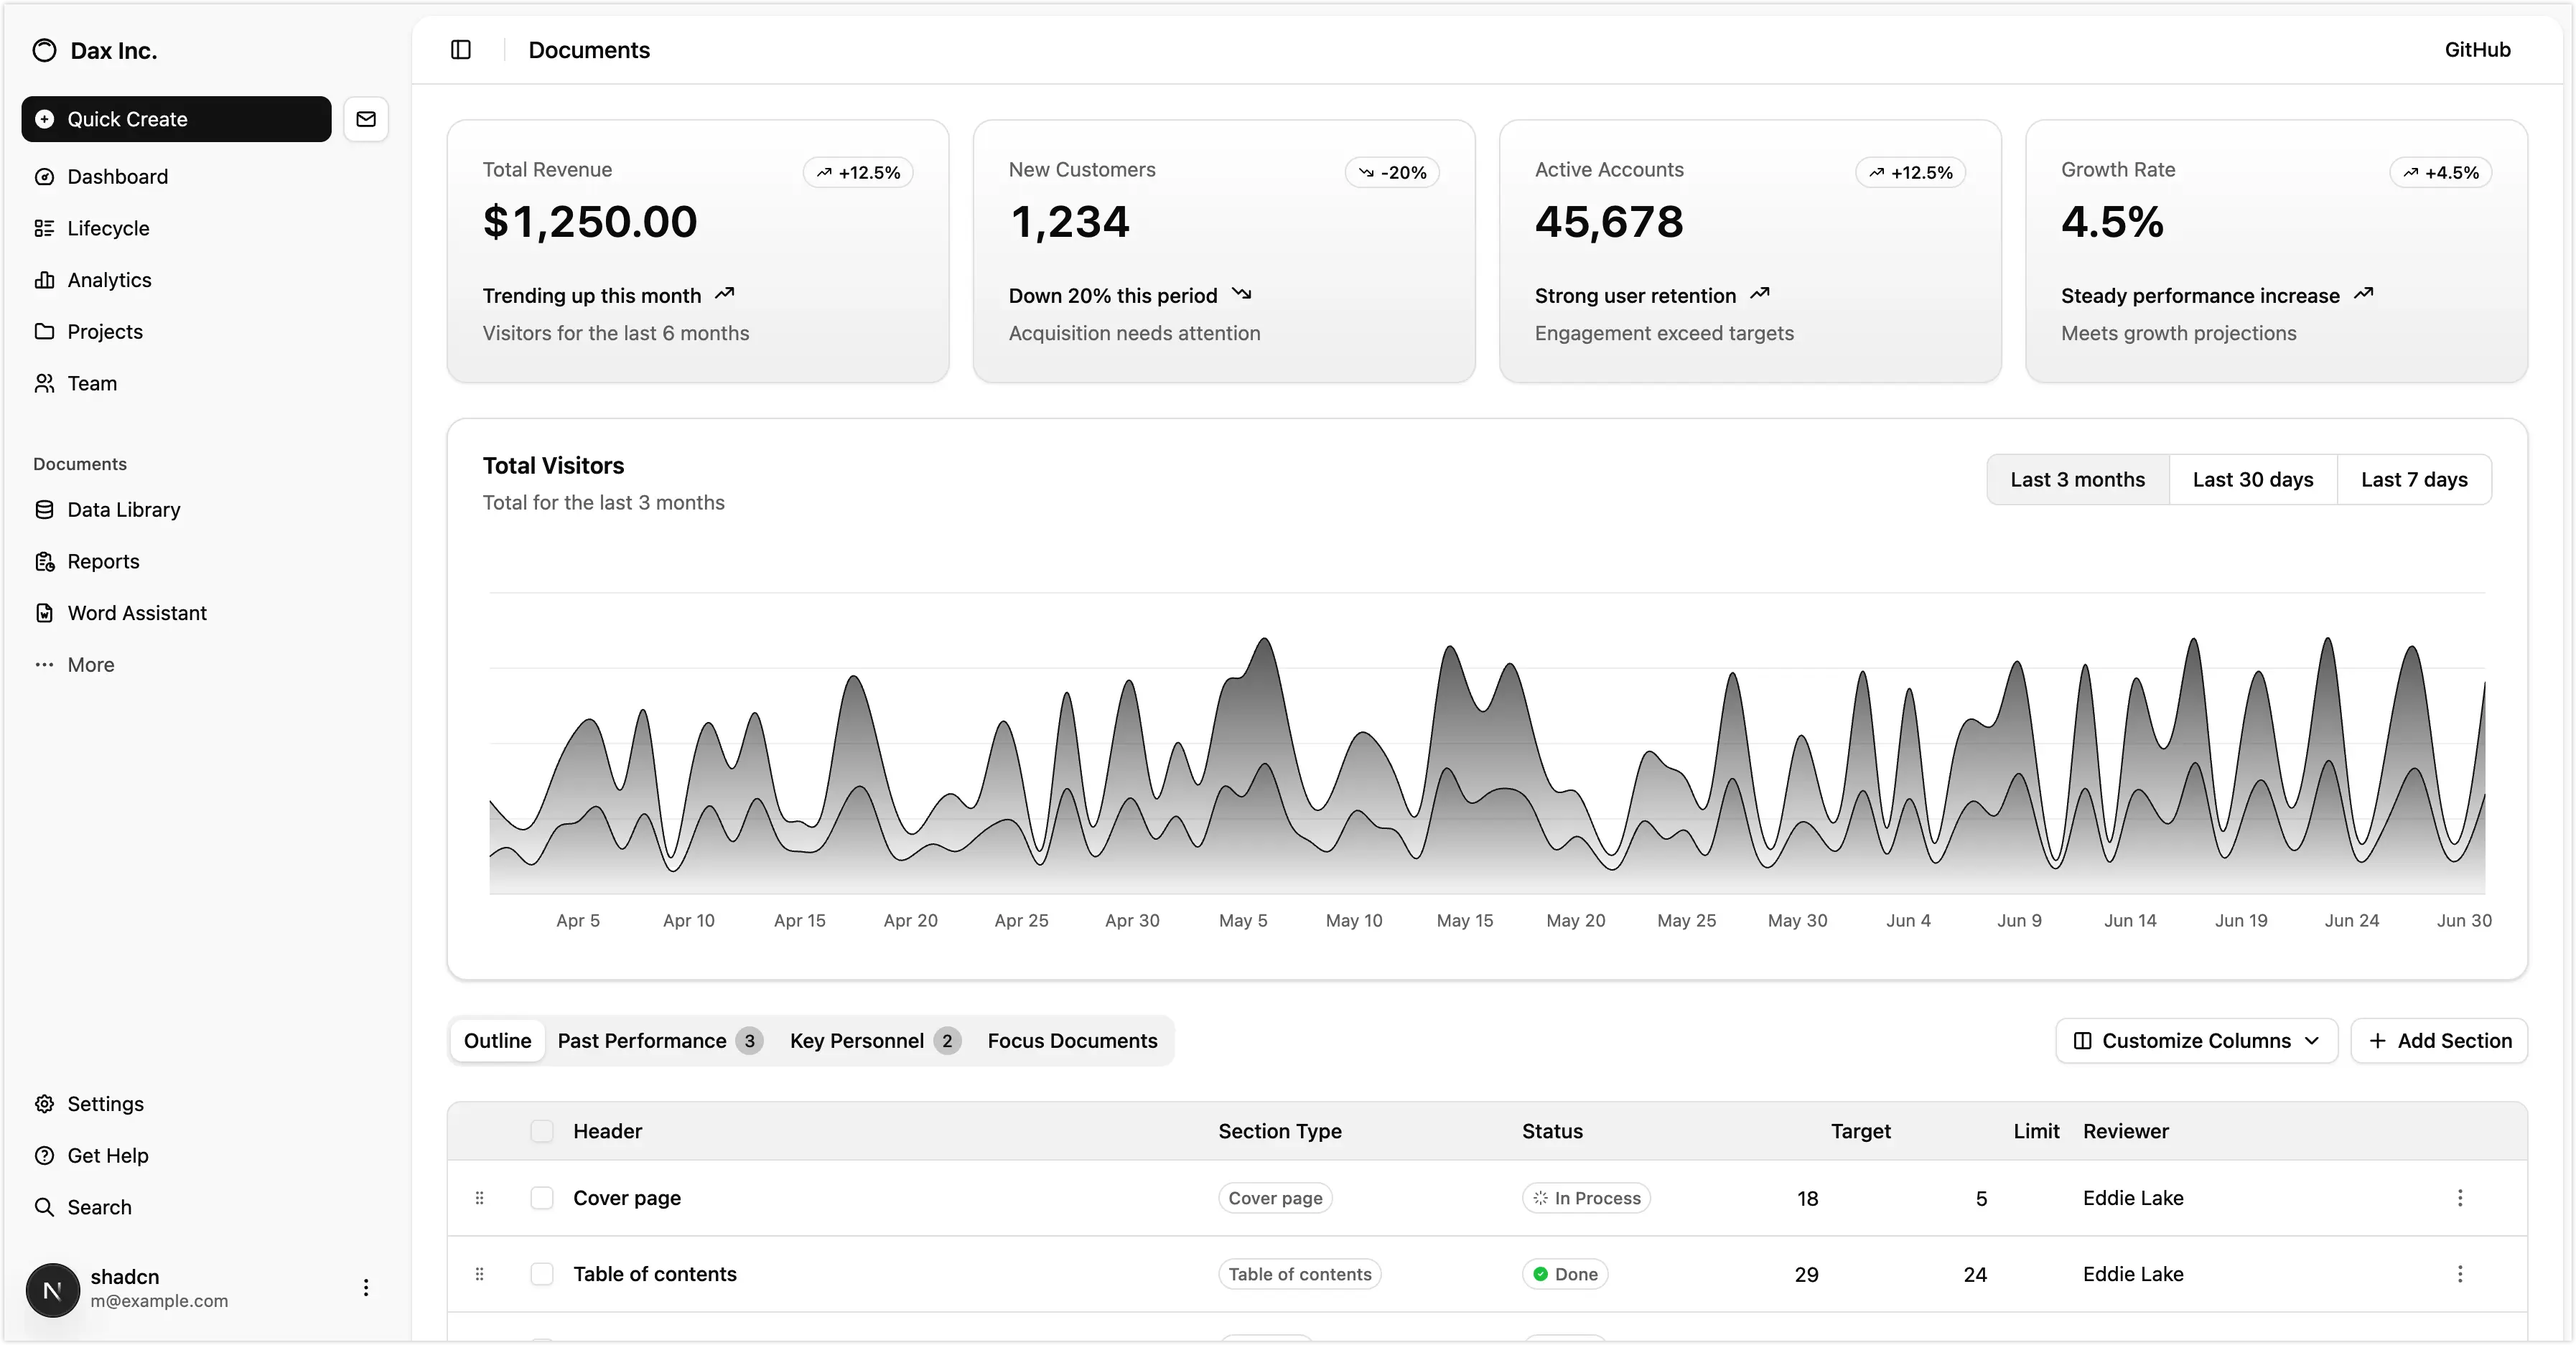
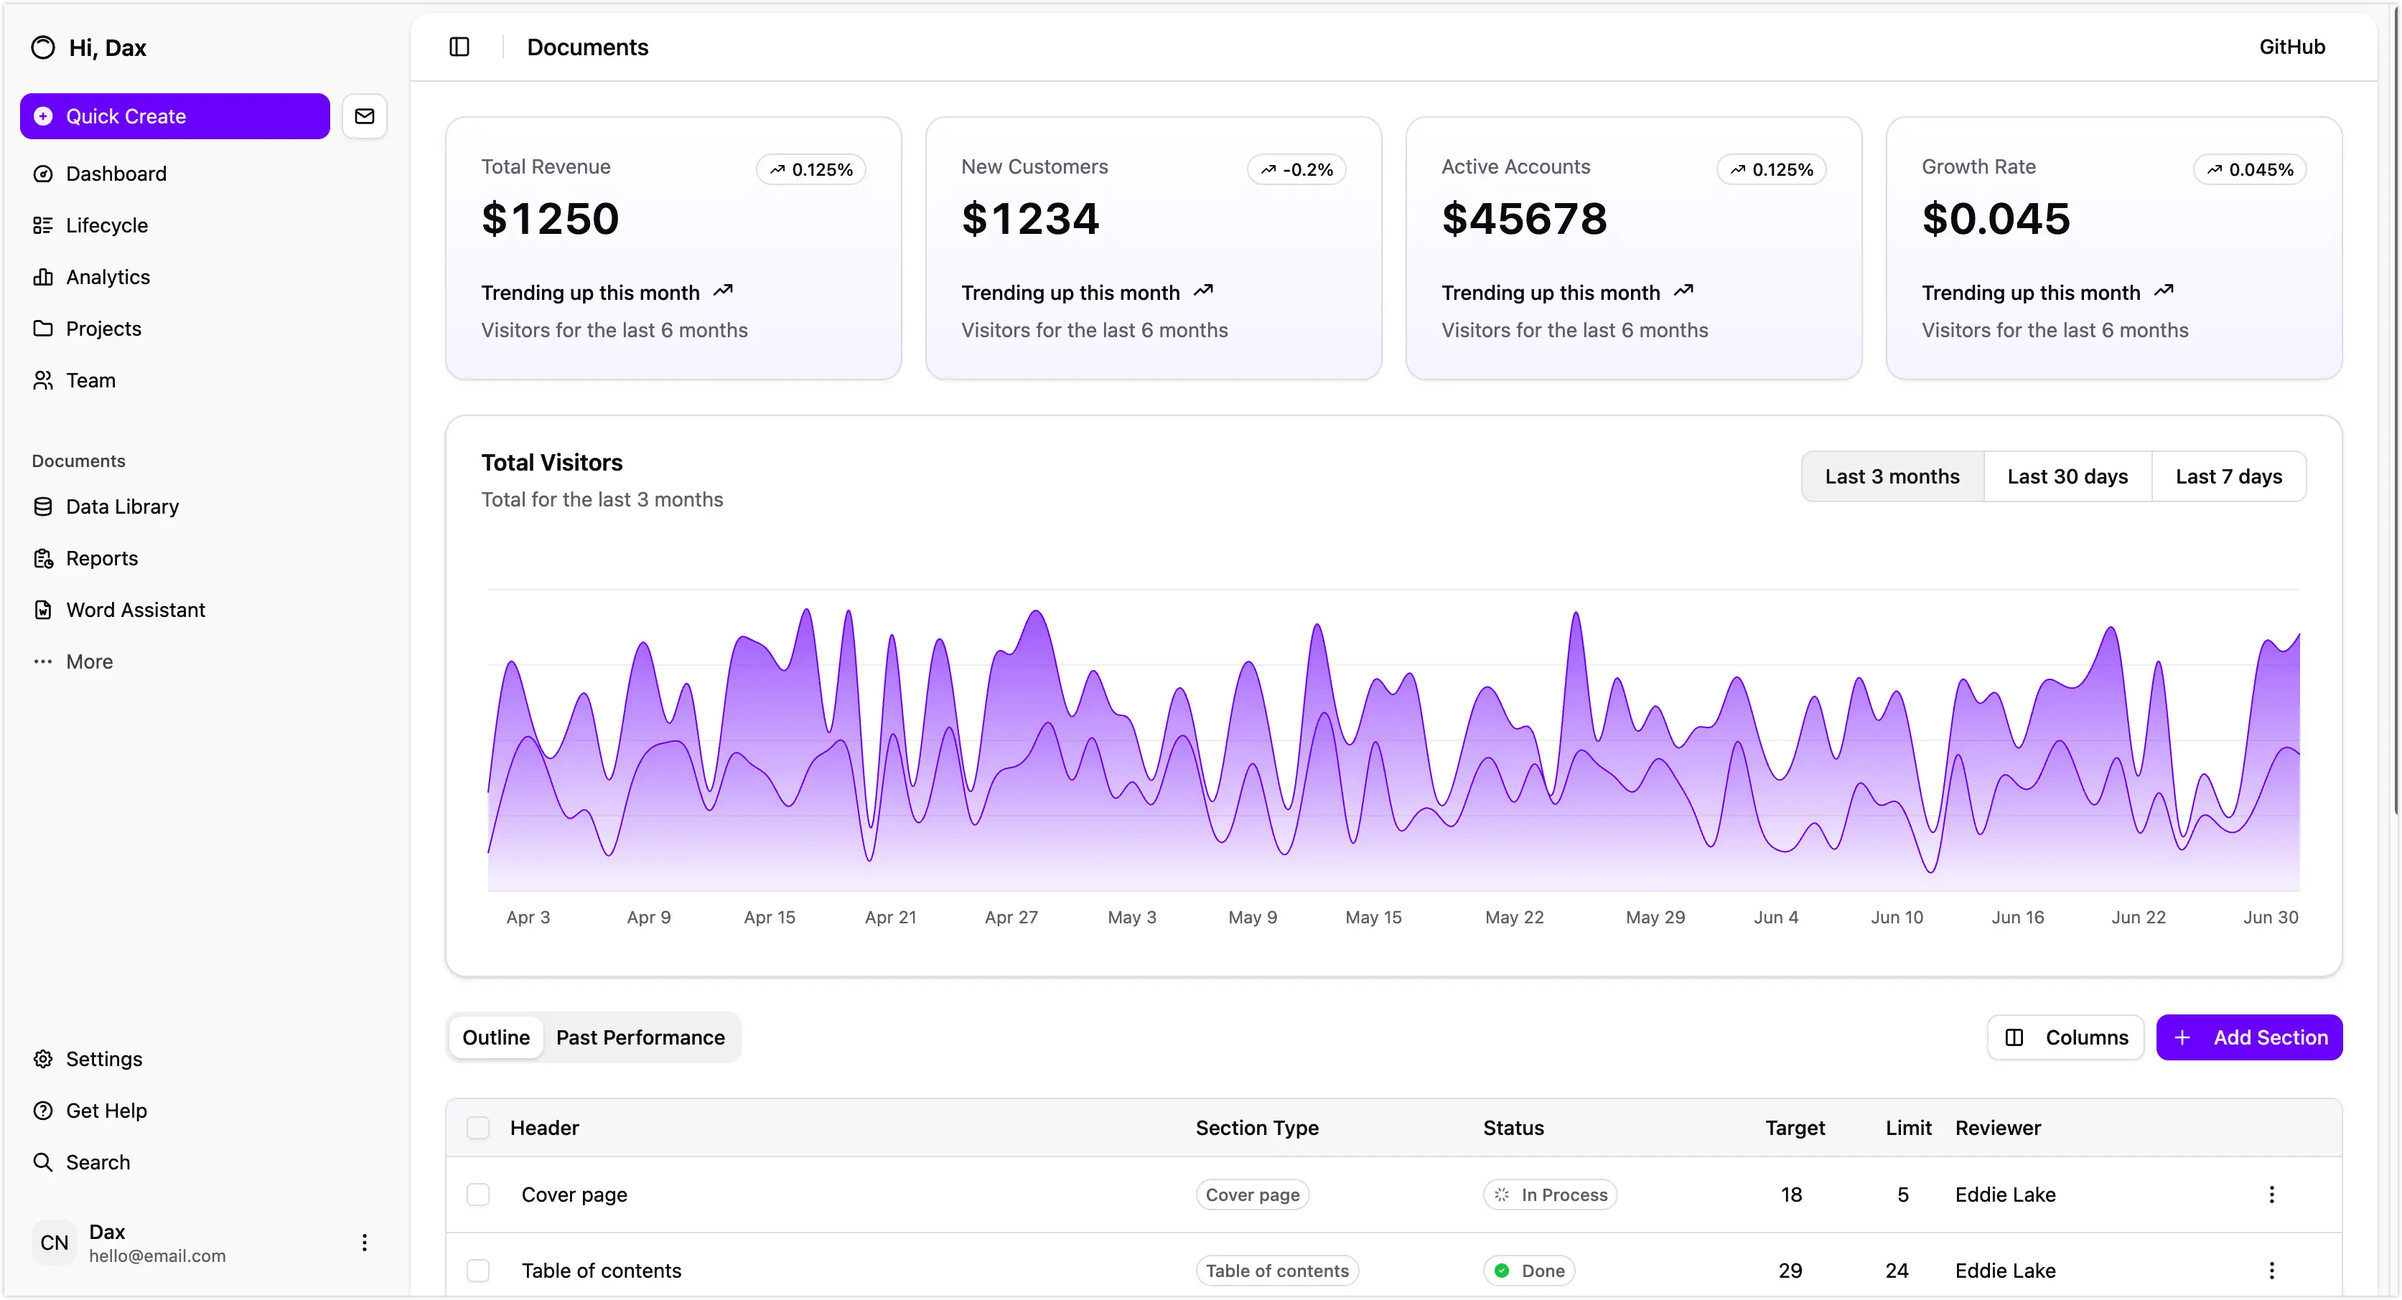
chore(console): modify theme color to violet style.

diff --git a/app/globals.css b/app/globals.css
@@ -4,156 +4,153 @@
 @custom-variant dark (&:is(.dark *));
 
 @theme inline {
-  --radius-sm: calc(var(--radius) - 4px);
-  --radius-md: calc(var(--radius) - 2px);
-  --radius-lg: var(--radius);
-  --radius-xl: calc(var(--radius) + 4px);
-  --radius-2xl: calc(var(--radius) + 8px);
-  --radius-3xl: calc(var(--radius) + 12px);
-  --radius-4xl: calc(var(--radius) + 16px);
-  --color-background: var(--background);
-  --color-foreground: var(--foreground);
-  --color-card: var(--card);
-  --color-card-foreground: var(--card-foreground);
-  --color-popover: var(--popover);
-  --color-popover-foreground: var(--popover-foreground);
-  --color-primary: var(--primary);
-  --color-primary-foreground: var(--primary-foreground);
-  --color-secondary: var(--secondary);
-  --color-secondary-foreground: var(--secondary-foreground);
-  --color-muted: var(--muted);
-  --color-muted-foreground: var(--muted-foreground);
-  --color-accent: var(--accent);
-  --color-accent-foreground: var(--accent-foreground);
-  --color-destructive: var(--destructive);
-  --color-border: var(--border);
-  --color-input: var(--input);
-  --color-ring: var(--ring);
-  --color-chart-1: var(--chart-1);
-  --color-chart-2: var(--chart-2);
-  --color-chart-3: var(--chart-3);
-  --color-chart-4: var(--chart-4);
-  --color-chart-5: var(--chart-5);
-  --color-sidebar: var(--sidebar);
-  --color-sidebar-foreground: var(--sidebar-foreground);
-  --color-sidebar-primary: var(--sidebar-primary);
-  --color-sidebar-primary-foreground: var(--sidebar-primary-foreground);
-  --color-sidebar-accent: var(--sidebar-accent);
-  --color-sidebar-accent-foreground: var(--sidebar-accent-foreground);
-  --color-sidebar-border: var(--sidebar-border);
-  --color-sidebar-ring: var(--sidebar-ring);
-  --animate-rainbow: rainbow var(--speed, 2s) infinite linear;
-  --color-color-5: var(--color-5);
-  --color-color-4: var(--color-4);
-  --color-color-3: var(--color-3);
-  --color-color-2: var(--color-2);
-  --color-color-1: var(--color-1);
-  @keyframes rainbow {
-  0% {
-    background-position: 0%;
-    }
-  100% {
-    background-position: 200%;
-    }
-  }
+	--radius-sm: calc(var(--radius) - 4px);
+	--radius-md: calc(var(--radius) - 2px);
+	--radius-lg: var(--radius);
+	--radius-xl: calc(var(--radius) + 4px);
+	--radius-2xl: calc(var(--radius) + 8px);
+	--radius-3xl: calc(var(--radius) + 12px);
+	--radius-4xl: calc(var(--radius) + 16px);
+	--color-background: var(--background);
+	--color-foreground: var(--foreground);
+	--color-card: var(--card);
+	--color-card-foreground: var(--card-foreground);
+	--color-popover: var(--popover);
+	--color-popover-foreground: var(--popover-foreground);
+	--color-primary: var(--primary);
+	--color-primary-foreground: var(--primary-foreground);
+	--color-secondary: var(--secondary);
+	--color-secondary-foreground: var(--secondary-foreground);
+	--color-muted: var(--muted);
+	--color-muted-foreground: var(--muted-foreground);
+	--color-accent: var(--accent);
+	--color-accent-foreground: var(--accent-foreground);
+	--color-destructive: var(--destructive);
+	--color-border: var(--border);
+	--color-input: var(--input);
+	--color-ring: var(--ring);
+	--color-chart-1: var(--chart-1);
+	--color-chart-2: var(--chart-2);
+	--color-chart-3: var(--chart-3);
+	--color-chart-4: var(--chart-4);
+	--color-chart-5: var(--chart-5);
+	--color-sidebar: var(--sidebar);
+	--color-sidebar-foreground: var(--sidebar-foreground);
+	--color-sidebar-primary: var(--sidebar-primary);
+	--color-sidebar-primary-foreground: var(--sidebar-primary-foreground);
+	--color-sidebar-accent: var(--sidebar-accent);
+	--color-sidebar-accent-foreground: var(--sidebar-accent-foreground);
+	--color-sidebar-border: var(--sidebar-border);
+	--color-sidebar-ring: var(--sidebar-ring);
+	--animate-rainbow: rainbow var(--speed, 2s) infinite linear;
+	--color-color-5: var(--color-5);
+	--color-color-4: var(--color-4);
+	--color-color-3: var(--color-3);
+	--color-color-2: var(--color-2);
+	--color-color-1: var(--color-1);
+	@keyframes rainbow {
+		0% {
+			background-position: 0%;
+		}
+		100% {
+			background-position: 200%;
+		}
+	}
 }
 
 :root {
-  --radius: 0.625rem;
+  --radius: 0.65rem;
   --background: oklch(1 0 0);
-  --foreground: oklch(0.145 0 0);
+  --foreground: oklch(0.141 0.005 285.823);
   --card: oklch(1 0 0);
-  --card-foreground: oklch(0.145 0 0);
+  --card-foreground: oklch(0.141 0.005 285.823);
   --popover: oklch(1 0 0);
-  --popover-foreground: oklch(0.145 0 0);
-  --primary: oklch(0.205 0 0);
-  --primary-foreground: oklch(0.985 0 0);
-  --secondary: oklch(0.97 0 0);
-  --secondary-foreground: oklch(0.205 0 0);
-  --muted: oklch(0.97 0 0);
-  --muted-foreground: oklch(0.556 0 0);
-  --accent: oklch(0.97 0 0);
-  --accent-foreground: oklch(0.205 0 0);
+  --popover-foreground: oklch(0.141 0.005 285.823);
+  --primary: oklch(0.541 0.281 293.009);
+  --primary-foreground: oklch(0.969 0.016 293.756);
+  --secondary: oklch(0.967 0.001 286.375);
+  --secondary-foreground: oklch(0.21 0.006 285.885);
+  --muted: oklch(0.967 0.001 286.375);
+  --muted-foreground: oklch(0.552 0.016 285.938);
+  --accent: oklch(0.967 0.001 286.375);
+  --accent-foreground: oklch(0.21 0.006 285.885);
   --destructive: oklch(0.577 0.245 27.325);
-  --border: oklch(0.922 0 0);
-  --input: oklch(0.922 0 0);
-  --ring: oklch(0.708 0 0);
-  --chart-1: oklch(0.646 0.222 41.116);
-  --chart-2: oklch(0.6 0.118 184.704);
-  --chart-3: oklch(0.398 0.07 227.392);
-  --chart-4: oklch(0.828 0.189 84.429);
-  --chart-5: oklch(0.769 0.188 70.08);
+  --border: oklch(0.92 0.004 286.32);
+  --input: oklch(0.92 0.004 286.32);
+  --ring: oklch(0.702 0.183 293.541);
+  --chart-1: oklch(0.811 0.111 293.571);
+  --chart-2: oklch(0.606 0.25 292.717);
+  --chart-3: oklch(0.541 0.281 293.009);
+  --chart-4: oklch(0.491 0.27 292.581);
+  --chart-5: oklch(0.432 0.232 292.759);
   --sidebar: oklch(0.985 0 0);
-  --sidebar-foreground: oklch(0.145 0 0);
-  --sidebar-primary: oklch(0.205 0 0);
-  --sidebar-primary-foreground: oklch(0.985 0 0);
-  --sidebar-accent: oklch(0.97 0 0);
-  --sidebar-accent-foreground: oklch(0.205 0 0);
-  --sidebar-border: oklch(0.922 0 0);
-  --sidebar-ring: oklch(0.708 0 0);
-  --color-1: oklch(66.2% 0.225 25.9);
-  --color-2: oklch(60.4% 0.26 302);
-  --color-3: oklch(69.6% 0.165 251);
-  --color-4: oklch(80.2% 0.134 225);
-  --color-5: oklch(90.7% 0.231 133);
+  --sidebar-foreground: oklch(0.141 0.005 285.823);
+  --sidebar-primary: oklch(0.541 0.281 293.009);
+  --sidebar-primary-foreground: oklch(0.969 0.016 293.756);
+  --sidebar-accent: oklch(0.967 0.001 286.375);
+  --sidebar-accent-foreground: oklch(0.21 0.006 285.885);
+  --sidebar-border: oklch(0.92 0.004 286.32);
+  --sidebar-ring: oklch(0.702 0.183 293.541);
 }
 
 .dark {
-  --background: oklch(0.145 0 0);
+  --background: oklch(0.141 0.005 285.823);
   --foreground: oklch(0.985 0 0);
-  --card: oklch(0.205 0 0);
+  --card: oklch(0.21 0.006 285.885);
   --card-foreground: oklch(0.985 0 0);
-  --popover: oklch(0.205 0 0);
+  --popover: oklch(0.21 0.006 285.885);
   --popover-foreground: oklch(0.985 0 0);
-  --primary: oklch(0.922 0 0);
-  --primary-foreground: oklch(0.205 0 0);
-  --secondary: oklch(0.269 0 0);
+  --primary: oklch(0.606 0.25 292.717);
+  --primary-foreground: oklch(0.969 0.016 293.756);
+  --secondary: oklch(0.274 0.006 286.033);
   --secondary-foreground: oklch(0.985 0 0);
-  --muted: oklch(0.269 0 0);
-  --muted-foreground: oklch(0.708 0 0);
-  --accent: oklch(0.269 0 0);
+  --muted: oklch(0.274 0.006 286.033);
+  --muted-foreground: oklch(0.705 0.015 286.067);
+  --accent: oklch(0.274 0.006 286.033);
   --accent-foreground: oklch(0.985 0 0);
   --destructive: oklch(0.704 0.191 22.216);
   --border: oklch(1 0 0 / 10%);
   --input: oklch(1 0 0 / 15%);
-  --ring: oklch(0.556 0 0);
-  --chart-1: oklch(0.488 0.243 264.376);
-  --chart-2: oklch(0.696 0.17 162.48);
-  --chart-3: oklch(0.769 0.188 70.08);
-  --chart-4: oklch(0.627 0.265 303.9);
-  --chart-5: oklch(0.645 0.246 16.439);
-  --sidebar: oklch(0.205 0 0);
+  --ring: oklch(0.38 0.189 293.745);
+  --chart-1: oklch(0.811 0.111 293.571);
+  --chart-2: oklch(0.606 0.25 292.717);
+  --chart-3: oklch(0.541 0.281 293.009);
+  --chart-4: oklch(0.491 0.27 292.581);
+  --chart-5: oklch(0.432 0.232 292.759);
+  --sidebar: oklch(0.21 0.006 285.885);
   --sidebar-foreground: oklch(0.985 0 0);
-  --sidebar-primary: oklch(0.488 0.243 264.376);
-  --sidebar-primary-foreground: oklch(0.985 0 0);
-  --sidebar-accent: oklch(0.269 0 0);
+  --sidebar-primary: oklch(0.606 0.25 292.717);
+  --sidebar-primary-foreground: oklch(0.969 0.016 293.756);
+  --sidebar-accent: oklch(0.274 0.006 286.033);
   --sidebar-accent-foreground: oklch(0.985 0 0);
   --sidebar-border: oklch(1 0 0 / 10%);
-  --sidebar-ring: oklch(0.556 0 0);
-  --color-1: oklch(66.2% 0.225 25.9);
-  --color-2: oklch(60.4% 0.26 302);
-  --color-3: oklch(69.6% 0.165 251);
-  --color-4: oklch(80.2% 0.134 225);
-  --color-5: oklch(90.7% 0.231 133);
+  --sidebar-ring: oklch(0.38 0.189 293.745);
 }
 
+
 @layer base {
-  * {
-    @apply border-border outline-ring/50;
-  }
-  body {
-    @apply bg-background text-foreground;
-  }
+	* {
+		@apply border-border outline-ring/50;
+	}
+	body {
+		@apply bg-background text-foreground;
+	}
 }
 
 @layer components {
-  .section-max-width-wrapper {
-    @apply mx-auto w-full md:max-w-screen-xl px-4 md:px-12 lg:px-20;
-  }
+	.section-max-width-wrapper {
+		@apply mx-auto w-full md:max-w-screen-xl px-4 md:px-12 lg:px-20;
+	}
 
-  .gradient {
-    background: conic-gradient(from 230.29deg at 51.63% 52.16%, rgb(36, 0, 255) 0deg, rgb(0, 135, 255) 67.5deg, rgb(108, 39, 157) 198.75deg, rgb(24, 38, 163) 251.25deg, rgb(54, 103, 196) 301.88deg, rgb(105, 30, 255) 360deg);
-  }
-
+	.gradient {
+		background: conic-gradient(
+			from 230.29deg at 51.63% 52.16%,
+			rgb(36, 0, 255) 0deg,
+			rgb(0, 135, 255) 67.5deg,
+			rgb(108, 39, 157) 198.75deg,
+			rgb(24, 38, 163) 251.25deg,
+			rgb(54, 103, 196) 301.88deg,
+			rgb(105, 30, 255) 360deg
+		);
+	}
 }
-
